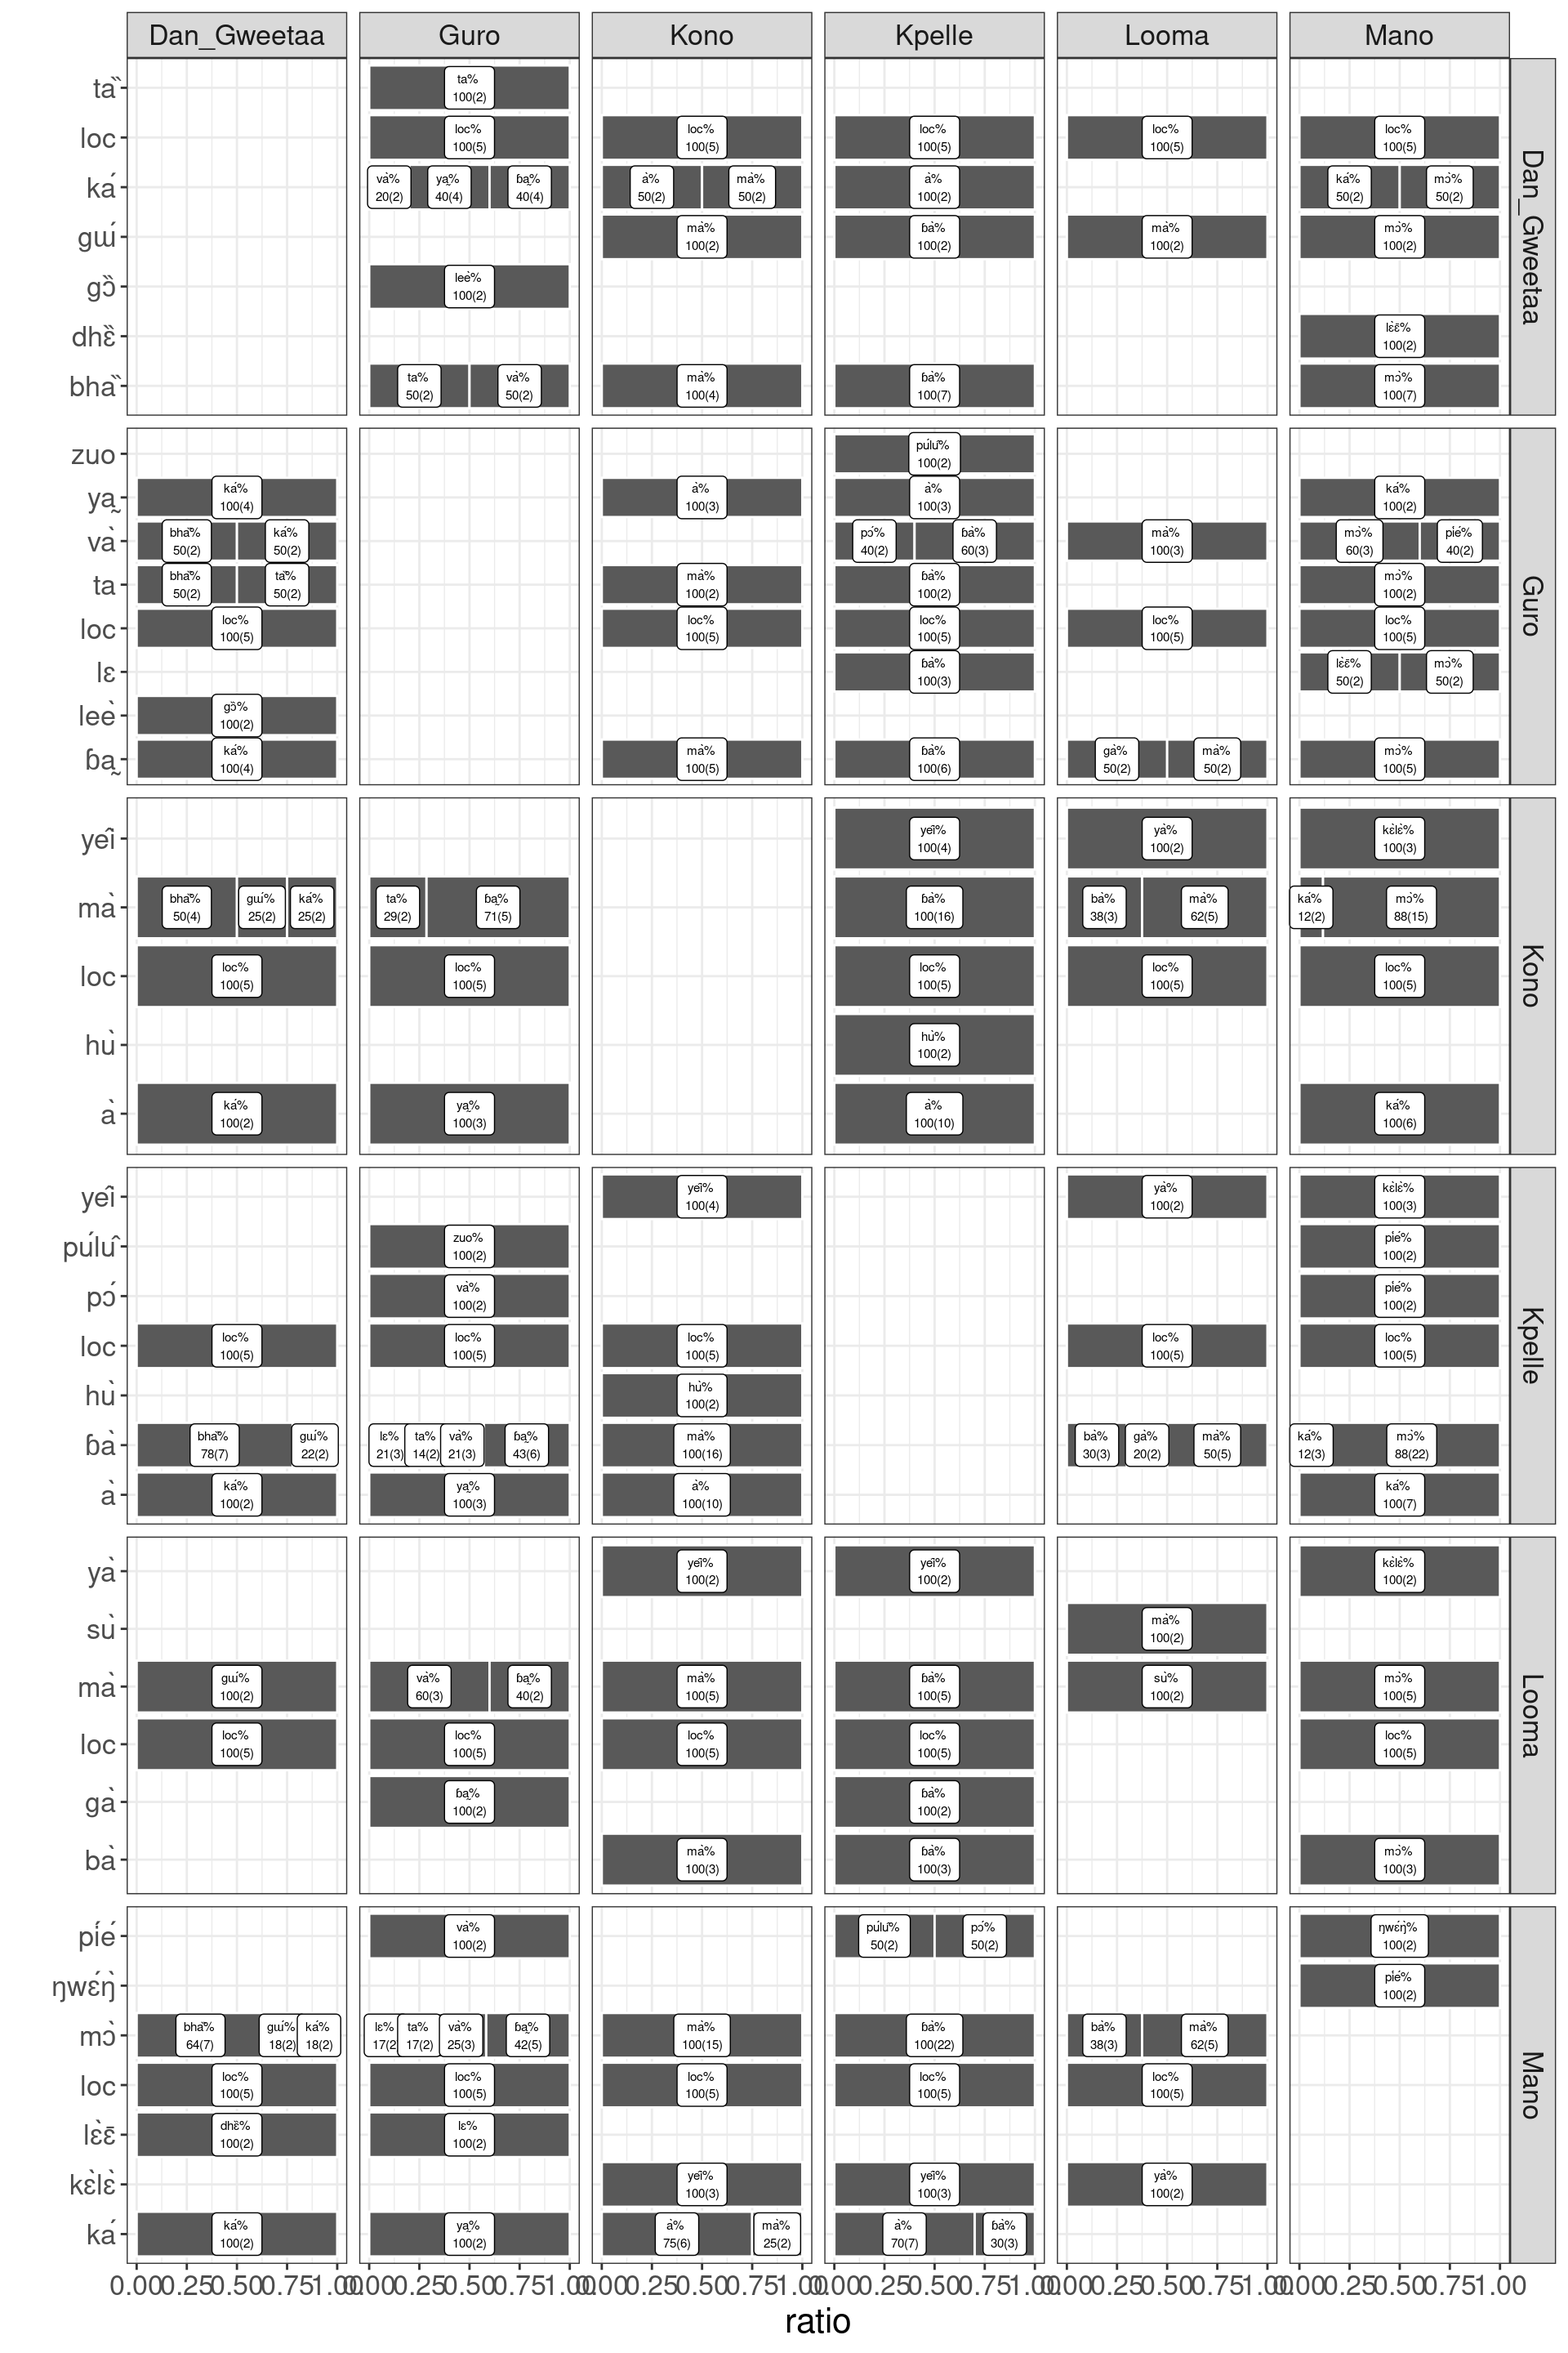
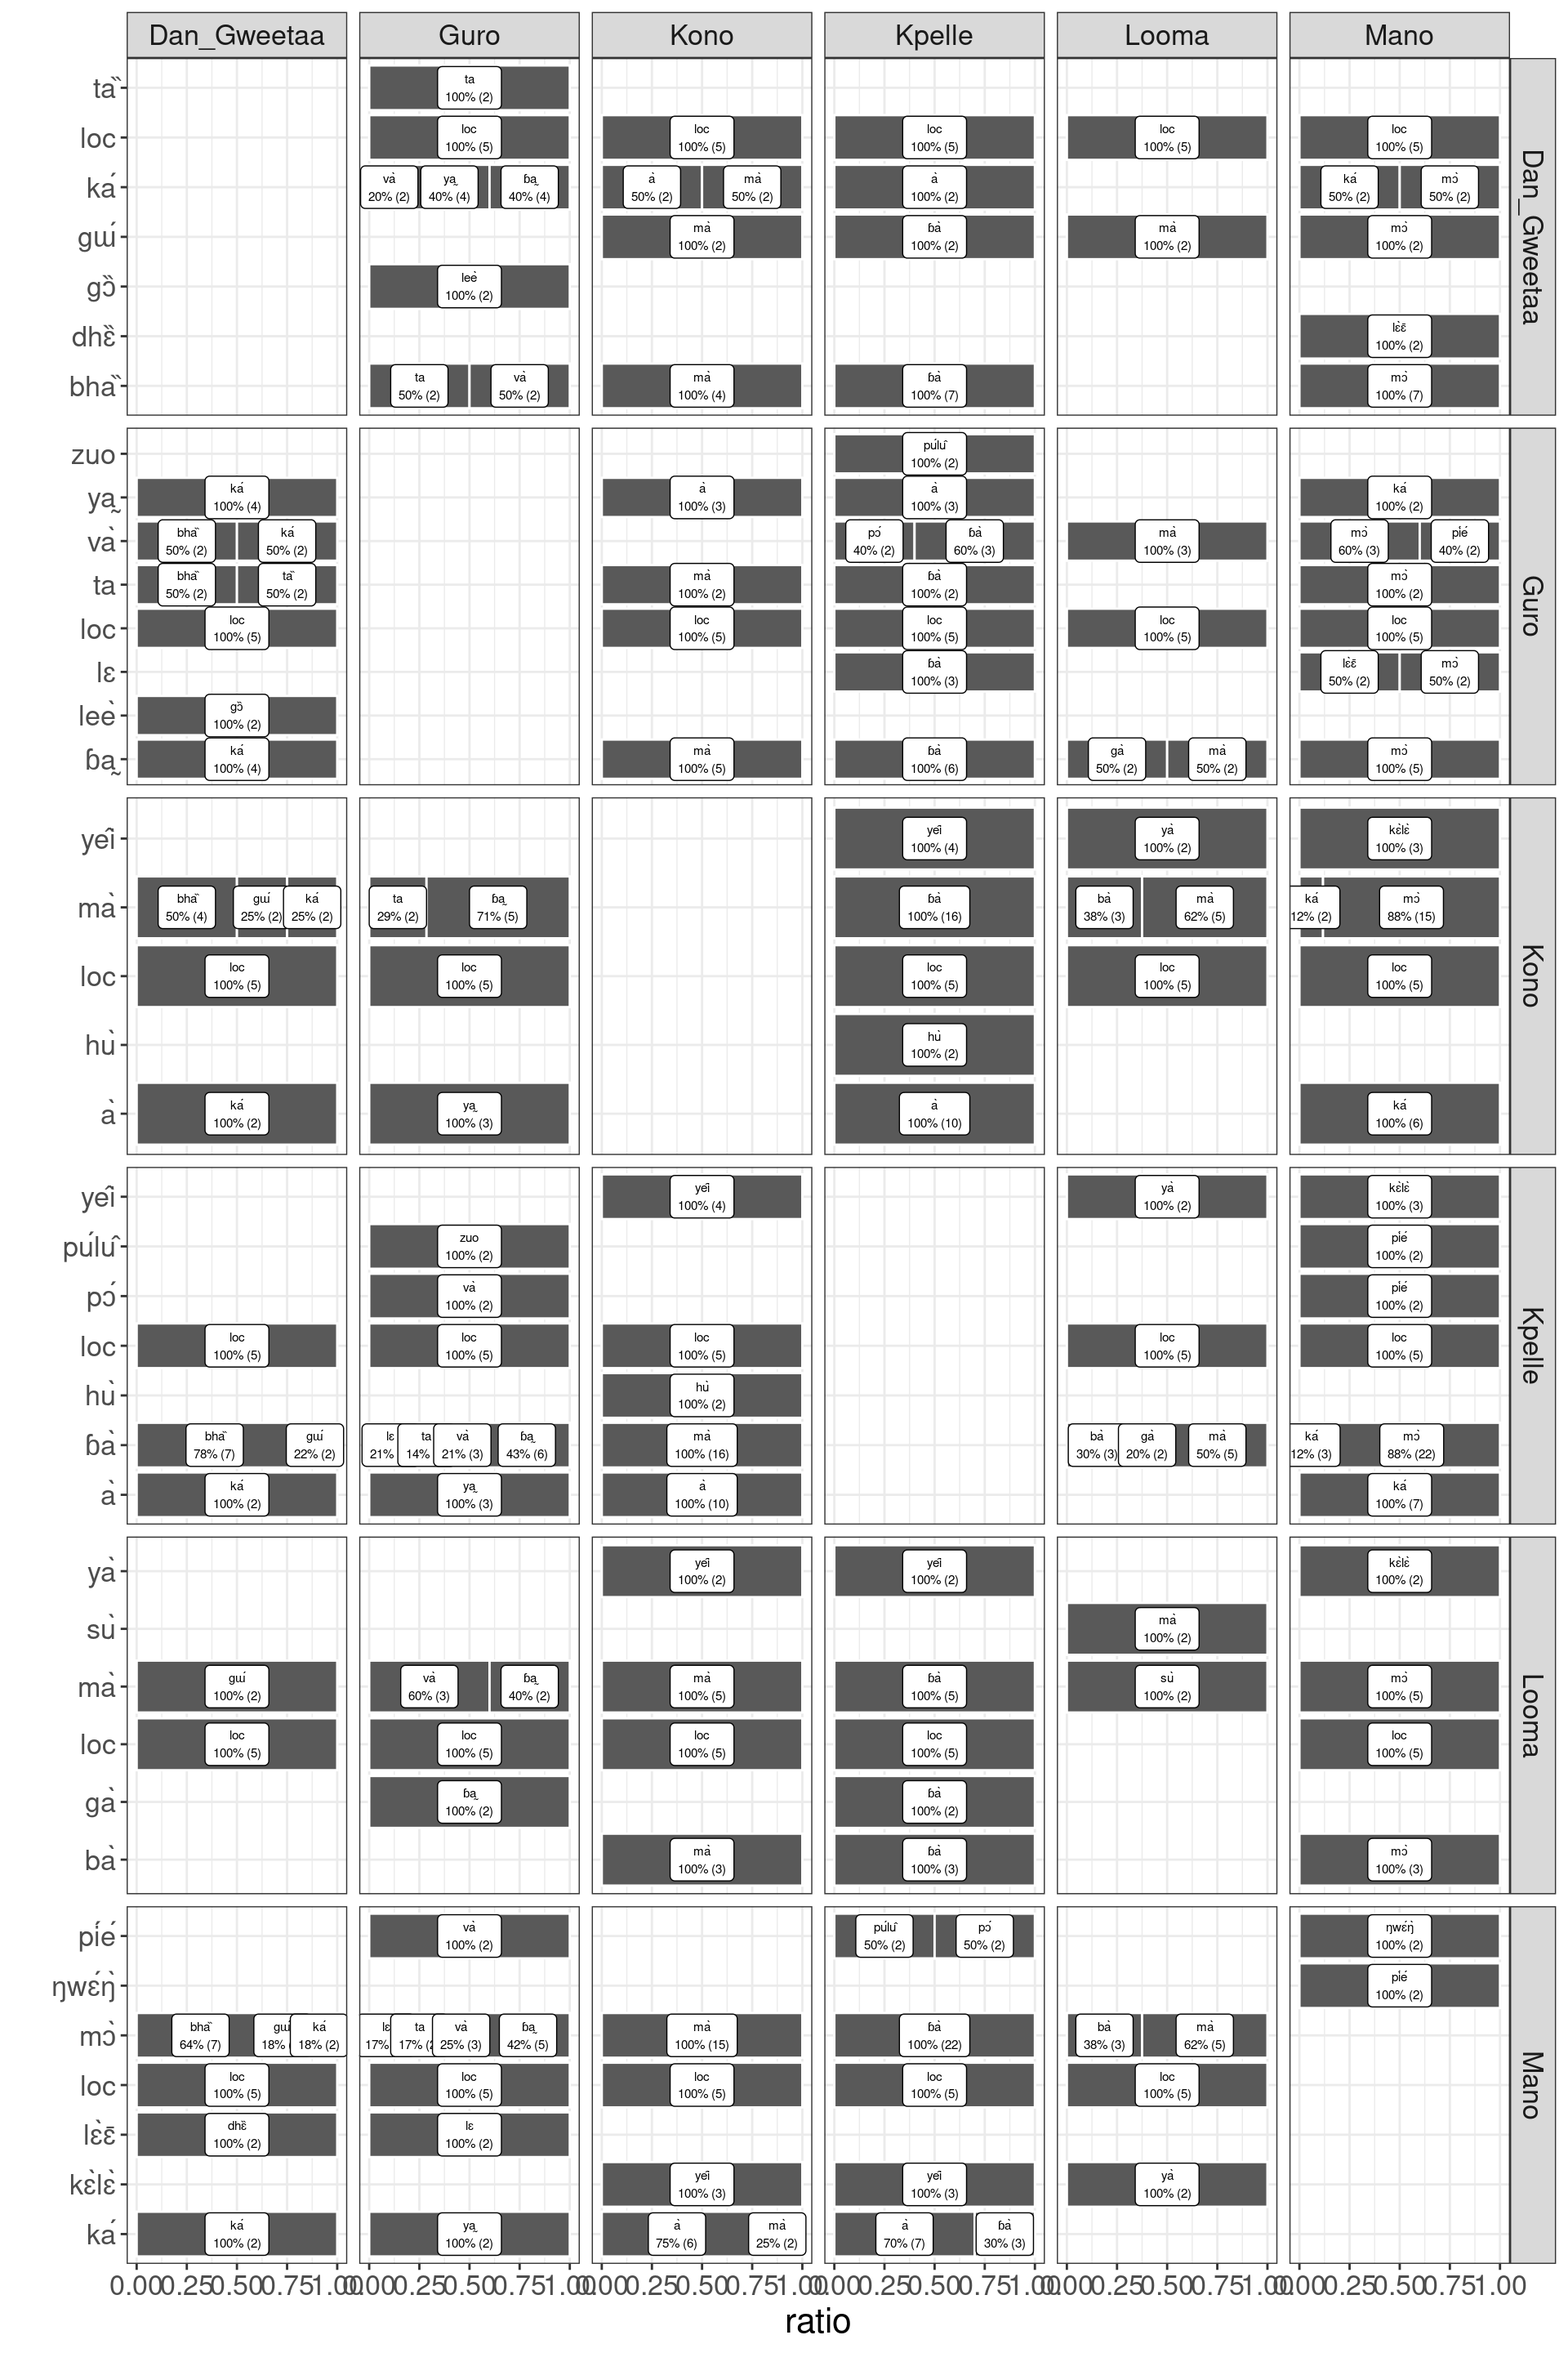
update

diff --git a/index.html b/index.html
@@ -5379,8 +5379,8 @@ code span.wa { color: #60a0b0; font-weight: bold; font-style: italic; } /* Warni
 <span id="cb32-15"><a href="#cb32-15" aria-hidden="true" tabindex="-1"></a>            <span class="at">n =</span> n,</span>
 <span id="cb32-16"><a href="#cb32-16" aria-hidden="true" tabindex="-1"></a>            <span class="at">adposition2 =</span> adposition2) <span class="sc">%&gt;%</span> </span>
 <span id="cb32-17"><a href="#cb32-17" aria-hidden="true" tabindex="-1"></a>  <span class="fu">distinct</span>() <span class="sc">%&gt;%</span> </span>
-<span id="cb32-18"><a href="#cb32-18" aria-hidden="true" tabindex="-1"></a>  <span class="fu">ggplot</span>(<span class="fu">aes</span>(ratio, adposition1, <span class="at">label =</span> <span class="fu">str_c</span>(adposition2, <span class="st">"% </span><span class="sc">\n</span><span class="st">"</span>,</span>
-<span id="cb32-19"><a href="#cb32-19" aria-hidden="true" tabindex="-1"></a>                                               <span class="fu">round</span>(ratio<span class="sc">*</span><span class="dv">100</span>), <span class="st">"("</span>,</span>
+<span id="cb32-18"><a href="#cb32-18" aria-hidden="true" tabindex="-1"></a>  <span class="fu">ggplot</span>(<span class="fu">aes</span>(ratio, adposition1, <span class="at">label =</span> <span class="fu">str_c</span>(adposition2, <span class="st">"</span><span class="sc">\n</span><span class="st">"</span>,</span>
+<span id="cb32-19"><a href="#cb32-19" aria-hidden="true" tabindex="-1"></a>                                               <span class="fu">round</span>(ratio<span class="sc">*</span><span class="dv">100</span>), <span class="st">"% ("</span>,</span>
 <span id="cb32-20"><a href="#cb32-20" aria-hidden="true" tabindex="-1"></a>                                               n, <span class="st">")"</span>)))<span class="sc">+</span></span>
 <span id="cb32-21"><a href="#cb32-21" aria-hidden="true" tabindex="-1"></a>  <span class="fu">geom_col</span>(<span class="at">color =</span> <span class="st">"white"</span>)<span class="sc">+</span></span>
 <span id="cb32-22"><a href="#cb32-22" aria-hidden="true" tabindex="-1"></a>  <span class="fu">geom_label</span>(<span class="at">position =</span> <span class="fu">position_stack</span>(<span class="at">vjust =</span> .<span class="dv">5</span>), <span class="at">size =</span> <span class="dv">2</span>)<span class="sc">+</span></span>
